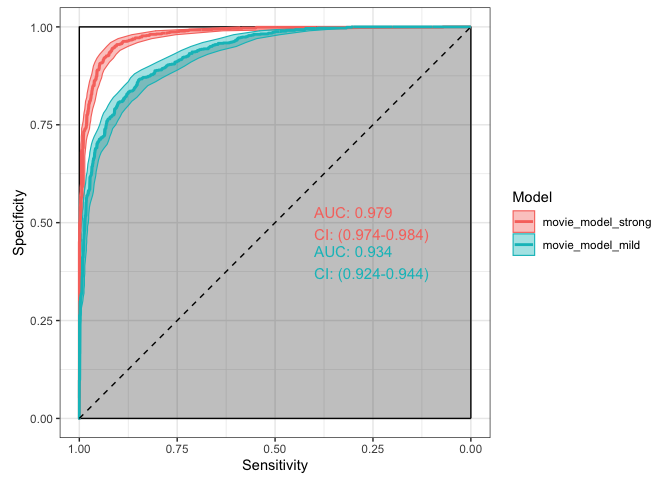
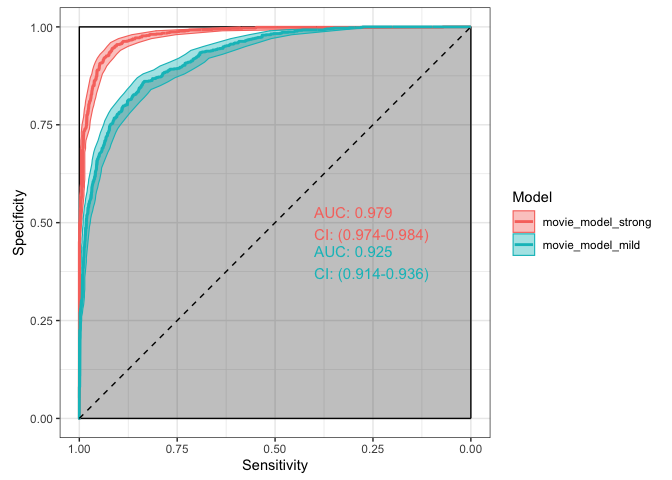
Update README

diff --git a/README.md b/README.md
@@ -1,19 +1,10 @@
-vignette
-================
-Nathan Anderson
-2/15/2021
 
-This packge implements the analysis described in Dobbins & Kantner 2019.
-It is intended to quantitatively assess natural language produced by
-participants, and use language choices to predict binary or continuous
-outcomes on a given measure.
+This package implements the analysis described in Dobbins & Kantner
+2019. It is intended to quantitatively assess natural language produced
+by participants, and use language choices to predict binary or
+continuous outcomes on a given measure.
 
 To install:
-
-``` r
-# install.packages("devtools")
-devtools::install_github("nlanderson9/languagePredictR")
-```
 
     ## Downloading GitHub repo nlanderson9/languagePredictR@HEAD
 
@@ -59,7 +50,7 @@ devtools::install_github("nlanderson9/languagePredictR")
 
     ## Installing 39 packages: crayon, cli, cpp11, tibble, dplyr, mime, tinytex, xfun, withr, knitr, hms, Rcpp, BH, broom, forcats, DBI, RcppArmadillo, diffobj, waldo, brio, testthat, plotrix, expm, rappdirs, cachem, fastmap, promises, httpuv, sp, pixmap, segmented, reprex, dbplyr, koRpus, stopwords, ggrepel, shiny, pROC, glmnet
 
-    ## Installing packages into '/private/var/folders/4p/n014f5rx3rb83vsf2c0f8h000000gn/T/RtmpdokoWO/temp_libpath1149d2b908a65'
+    ## Installing packages into '/private/var/folders/4p/n014f5rx3rb83vsf2c0f8h000000gn/T/Rtmp6EvRpG/temp_libpath11a543f140c68'
     ## (as 'lib' is unspecified)
 
     ## 
@@ -71,11 +62,11 @@ devtools::install_github("nlanderson9/languagePredictR")
     ## 
     ## 
     ## The downloaded binary packages are in
-    ##  /var/folders/4p/n014f5rx3rb83vsf2c0f8h000000gn/T//RtmpGVpR3e/downloaded_packages
+    ##  /var/folders/4p/n014f5rx3rb83vsf2c0f8h000000gn/T//RtmpJ89gZL/downloaded_packages
 
     ## installing the source packages 'mime', 'testthat', 'cachem'
 
-    ##      checking for file ‘/private/var/folders/4p/n014f5rx3rb83vsf2c0f8h000000gn/T/RtmpGVpR3e/remotes1174d54681320/nlanderson9-languagePredictR-2c16fbd/DESCRIPTION’ ...  ✓  checking for file ‘/private/var/folders/4p/n014f5rx3rb83vsf2c0f8h000000gn/T/RtmpGVpR3e/remotes1174d54681320/nlanderson9-languagePredictR-2c16fbd/DESCRIPTION’
+    ##      checking for file ‘/private/var/folders/4p/n014f5rx3rb83vsf2c0f8h000000gn/T/RtmpJ89gZL/remotes11b2777c5d5c3/nlanderson9-languagePredictR-55d2d26/DESCRIPTION’ ...  ✓  checking for file ‘/private/var/folders/4p/n014f5rx3rb83vsf2c0f8h000000gn/T/RtmpJ89gZL/remotes11b2777c5d5c3/nlanderson9-languagePredictR-55d2d26/DESCRIPTION’
     ##   ─  preparing ‘languagePredictR’:
     ##      checking DESCRIPTION meta-information ...  ✓  checking DESCRIPTION meta-information
     ##   ─  checking for LF line-endings in source and make files and shell scripts
@@ -84,7 +75,7 @@ devtools::install_github("nlanderson9/languagePredictR")
     ##      
     ## 
 
-    ## Installing package into '/private/var/folders/4p/n014f5rx3rb83vsf2c0f8h000000gn/T/RtmpdokoWO/temp_libpath1149d2b908a65'
+    ## Installing package into '/private/var/folders/4p/n014f5rx3rb83vsf2c0f8h000000gn/T/Rtmp6EvRpG/temp_libpath11a543f140c68'
     ## (as 'lib' is unspecified)
 
 ``` r
@@ -159,13 +150,6 @@ using language choice to predict whether the review is Positive or
 Negative) and what type the outcome variable is (here, a binary
 variable)
 
-``` r
-movie_model_strong = language_model(strong_movie_review_data,
-                                      outcomeVariableColumnName = "valence",
-                                      outcomeVariableType = "binary",
-                                      textColumnName = "cleanText")
-```
-
     ## Training
     ##   |                                                                              |                                                                      |   0%  |                                                                              |=                                                                     |   1%  |                                                                              |=                                                                     |   2%  |                                                                              |==                                                                    |   3%  |                                                                              |===                                                                   |   4%  |                                                                              |====                                                                  |   5%  |                                                                              |====                                                                  |   6%  |                                                                              |=====                                                                 |   7%  |                                                                              |======                                                                |   8%  |                                                                              |======                                                                |   9%  |                                                                              |=======                                                               |  10%  |                                                                              |========                                                              |  11%  |                                                                              |========                                                              |  12%  |                                                                              |=========                                                             |  13%  |                                                                              |==========                                                            |  14%  |                                                                              |==========                                                            |  15%  |                                                                              |===========                                                           |  16%  |                                                                              |============                                                          |  17%  |                                                                              |=============                                                         |  18%  |                                                                              |=============                                                         |  19%  |                                                                              |==============                                                        |  20%  |                                                                              |===============                                                       |  21%  |                                                                              |===============                                                       |  22%  |                                                                              |================                                                      |  23%  |                                                                              |=================                                                     |  24%  |                                                                              |==================                                                    |  25%  |                                                                              |==================                                                    |  26%  |                                                                              |===================                                                   |  27%  |                                                                              |====================                                                  |  28%  |                                                                              |====================                                                  |  29%  |                                                                              |=====================                                                 |  30%  |                                                                              |======================                                                |  31%  |                                                                              |======================                                                |  32%  |                                                                              |=======================                                               |  33%  |                                                                              |========================                                              |  34%  |                                                                              |========================                                              |  35%  |                                                                              |=========================                                             |  36%  |                                                                              |==========================                                            |  37%  |                                                                              |===========================                                           |  38%  |                                                                              |===========================                                           |  39%  |                                                                              |============================                                          |  40%  |                                                                              |=============================                                         |  41%  |                                                                              |=============================                                         |  42%  |                                                                              |==============================                                        |  43%  |                                                                              |===============================                                       |  44%  |                                                                              |================================                                      |  45%  |                                                                              |================================                                      |  46%  |                                                                              |=================================                                     |  47%  |                                                                              |==================================                                    |  48%  |                                                                              |==================================                                    |  49%  |                                                                              |===================================                                   |  50%  |                                                                              |====================================                                  |  51%  |                                                                              |====================================                                  |  52%  |                                                                              |=====================================                                 |  53%  |                                                                              |======================================                                |  54%  |                                                                              |======================================                                |  55%  |                                                                              |=======================================                               |  56%  |                                                                              |========================================                              |  57%  |                                                                              |=========================================                             |  58%  |                                                                              |=========================================                             |  59%  |                                                                              |==========================================                            |  60%  |                                                                              |===========================================                           |  61%  |                                                                              |===========================================                           |  62%  |                                                                              |============================================                          |  63%  |                                                                              |=============================================                         |  64%  |                                                                              |==============================================                        |  65%  |                                                                              |==============================================                        |  66%  |                                                                              |===============================================                       |  67%  |                                                                              |================================================                      |  68%  |                                                                              |================================================                      |  69%  |                                                                              |=================================================                     |  70%  |                                                                              |==================================================                    |  71%  |                                                                              |==================================================                    |  72%  |                                                                              |===================================================                   |  73%  |                                                                              |====================================================                  |  74%  |                                                                              |====================================================                  |  75%  |                                                                              |=====================================================                 |  76%  |                                                                              |======================================================                |  77%  |                                                                              |=======================================================               |  78%  |                                                                              |=======================================================               |  79%  |                                                                              |========================================================              |  80%  |                                                                              |=========================================================             |  81%  |                                                                              |=========================================================             |  82%  |                                                                              |==========================================================            |  83%  |                                                                              |===========================================================           |  84%  |                                                                              |============================================================          |  85%  |                                                                              |============================================================          |  86%  |                                                                              |=============================================================         |  87%  |                                                                              |==============================================================        |  88%  |                                                                              |==============================================================        |  89%  |                                                                              |===============================================================       |  90%  |                                                                              |================================================================      |  91%  |                                                                              |================================================================      |  92%  |                                                                              |=================================================================     |  93%  |                                                                              |==================================================================    |  94%  |                                                                              |==================================================================    |  95%  |                                                                              |===================================================================   |  96%  |                                                                              |====================================================================  |  97%  |                                                                              |===================================================================== |  98%  |                                                                              |===================================================================== |  99%  |                                                                              |======================================================================| 100%
     ## Fold: 1/10
@@ -198,14 +182,6 @@ another dataset: mild\_movie\_review\_data. This dataset is very
 similar, except these reviews are more “mild” (4 and 7, instead of 1 and
 10). Maybe people use stronger, and more predictive, language for
 stronger reviews?
-
-``` r
-mild_movie_review_data$cleanText = clean_text(mild_movie_review_data$text)
-movie_model_mild = language_model(mild_movie_review_data,
-                                      outcomeVariableColumnName = "valence",
-                                      outcomeVariableType = "binary",
-                                      textColumnName = "cleanText")
-```
 
     ## Training
     ##   |                                                                              |                                                                      |   0%  |                                                                              |=                                                                     |   1%  |                                                                              |=                                                                     |   2%  |                                                                              |==                                                                    |   3%  |                                                                              |===                                                                   |   4%  |                                                                              |====                                                                  |   5%  |                                                                              |====                                                                  |   6%  |                                                                              |=====                                                                 |   7%  |                                                                              |======                                                                |   8%  |                                                                              |======                                                                |   9%  |                                                                              |=======                                                               |  10%  |                                                                              |========                                                              |  11%  |                                                                              |========                                                              |  12%  |                                                                              |=========                                                             |  13%  |                                                                              |==========                                                            |  14%  |                                                                              |==========                                                            |  15%  |                                                                              |===========                                                           |  16%  |                                                                              |============                                                          |  17%  |                                                                              |=============                                                         |  18%  |                                                                              |=============                                                         |  19%  |                                                                              |==============                                                        |  20%  |                                                                              |===============                                                       |  21%  |                                                                              |===============                                                       |  22%  |                                                                              |================                                                      |  23%  |                                                                              |=================                                                     |  24%  |                                                                              |==================                                                    |  25%  |                                                                              |==================                                                    |  26%  |                                                                              |===================                                                   |  27%  |                                                                              |====================                                                  |  28%  |                                                                              |====================                                                  |  29%  |                                                                              |=====================                                                 |  30%  |                                                                              |======================                                                |  31%  |                                                                              |======================                                                |  32%  |                                                                              |=======================                                               |  33%  |                                                                              |========================                                              |  34%  |                                                                              |========================                                              |  35%  |                                                                              |=========================                                             |  36%  |                                                                              |==========================                                            |  37%  |                                                                              |===========================                                           |  38%  |                                                                              |===========================                                           |  39%  |                                                                              |============================                                          |  40%  |                                                                              |=============================                                         |  41%  |                                                                              |=============================                                         |  42%  |                                                                              |==============================                                        |  43%  |                                                                              |===============================                                       |  44%  |                                                                              |================================                                      |  45%  |                                                                              |================================                                      |  46%  |                                                                              |=================================                                     |  47%  |                                                                              |==================================                                    |  48%  |                                                                              |==================================                                    |  49%  |                                                                              |===================================                                   |  50%  |                                                                              |====================================                                  |  51%  |                                                                              |====================================                                  |  52%  |                                                                              |=====================================                                 |  53%  |                                                                              |======================================                                |  54%  |                                                                              |======================================                                |  55%  |                                                                              |=======================================                               |  56%  |                                                                              |========================================                              |  57%  |                                                                              |=========================================                             |  58%  |                                                                              |=========================================                             |  59%  |                                                                              |==========================================                            |  60%  |                                                                              |===========================================                           |  61%  |                                                                              |===========================================                           |  62%  |                                                                              |============================================                          |  63%  |                                                                              |=============================================                         |  64%  |                                                                              |==============================================                        |  65%  |                                                                              |==============================================                        |  66%  |                                                                              |===============================================                       |  67%  |                                                                              |================================================                      |  68%  |                                                                              |================================================                      |  69%  |                                                                              |=================================================                     |  70%  |                                                                              |==================================================                    |  71%  |                                                                              |==================================================                    |  72%  |                                                                              |===================================================                   |  73%  |                                                                              |====================================================                  |  74%  |                                                                              |====================================================                  |  75%  |                                                                              |=====================================================                 |  76%  |                                                                              |======================================================                |  77%  |                                                                              |=======================================================               |  78%  |                                                                              |=======================================================               |  79%  |                                                                              |========================================================              |  80%  |                                                                              |=========================================================             |  81%  |                                                                              |=========================================================             |  82%  |                                                                              |==========================================================            |  83%  |                                                                              |===========================================================           |  84%  |                                                                              |============================================================          |  85%  |                                                                              |============================================================          |  86%  |                                                                              |=============================================================         |  87%  |                                                                              |==============================================================        |  88%  |                                                                              |==============================================================        |  89%  |                                                                              |===============================================================       |  90%  |                                                                              |================================================================      |  91%  |                                                                              |================================================================      |  92%  |                                                                              |=================================================================     |  93%  |                                                                              |==================================================================    |  94%  |                                                                              |==================================================================    |  95%  |                                                                              |===================================================================   |  96%  |                                                                              |====================================================================  |  97%  |                                                                              |===================================================================== |  98%  |                                                                              |===================================================================== |  99%  |                                                                              |======================================================================| 100%
@@ -257,7 +233,7 @@ test_output
 ```
 
     ##               model1           model2 model1_auc model2_auc      p_value sig
-    ## 1 movie_model_strong movie_model_mild   0.979426   0.933898 8.600555e-16 ***
+    ## 1 movie_model_strong movie_model_mild   0.979426   0.924596 1.619106e-19 ***
 
 It is !
 
@@ -273,4 +249,4 @@ plot. Let’s look at the top 15:
 plot_predictor_words(movie_assessment, topX = 15)
 ```
 
-![](README_files/figure-gfm/unnamed-chunk-10-1.png)<!-- -->![](README_files/figure-gfm/unnamed-chunk-10-2.png)<!-- -->![](README_files/figure-gfm/unnamed-chunk-10-3.png)<!-- -->![](README_files/figure-gfm/unnamed-chunk-10-4.png)<!-- -->![](README_files/figure-gfm/unnamed-chunk-10-5.png)<!-- -->![](README_files/figure-gfm/unnamed-chunk-10-6.png)<!-- -->
+![](README_files/figure-gfm/unnamed-chunk-10-1.png)<!-- -->![](README_files/figure-gfm/unnamed-chunk-10-2.png)<!-- -->![](README_files/figure-gfm/unnamed-chunk-10-3.png)<!-- -->
